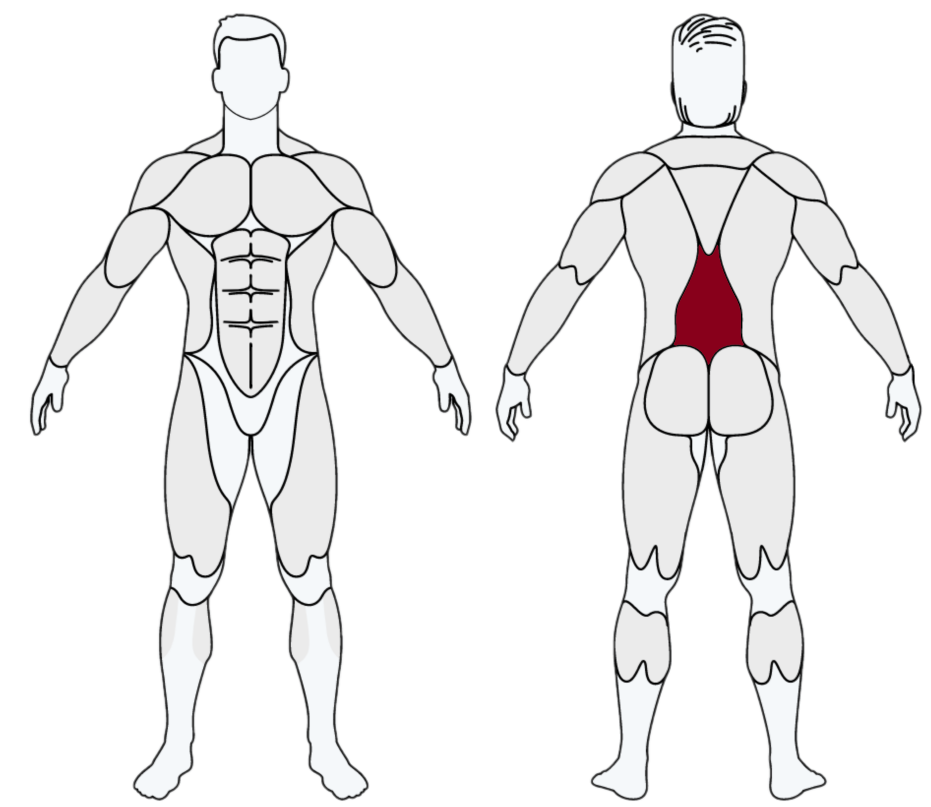
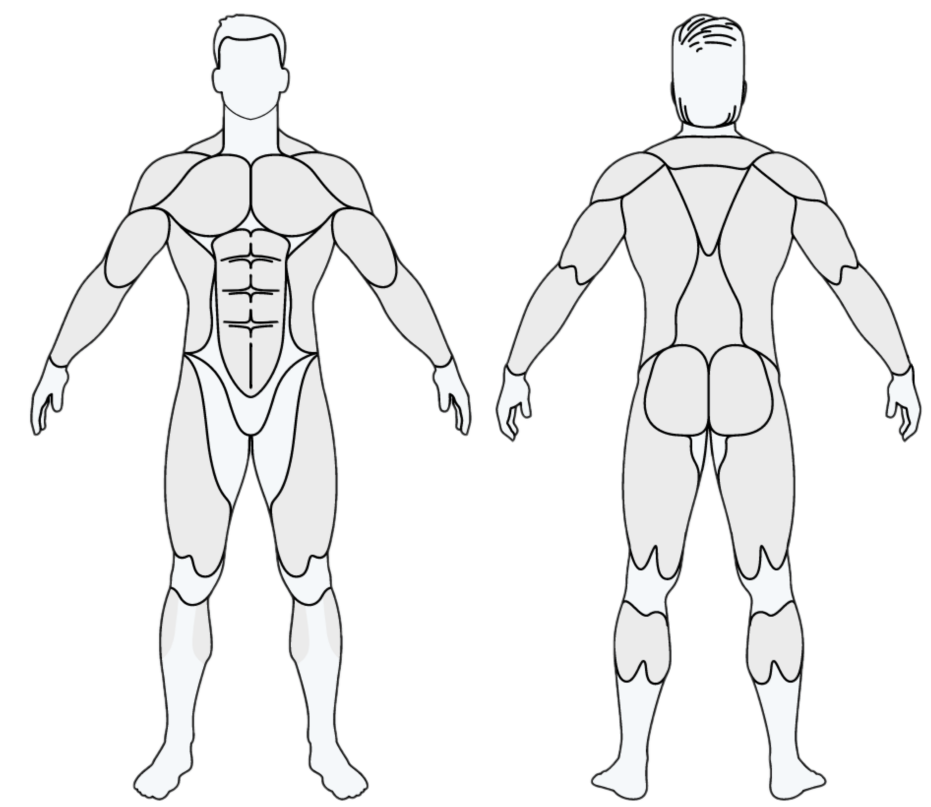
arrumando bugs finais

Changed region(s): [[0.7164, 0.3098, 0.8099, 0.4647]]

diff --git a/criador_treino.html b/criador_treino.html
@@ -62,85 +62,91 @@
     }
   </script>
 
+  <script src="https://kit.fontawesome.com/8a7eb19e2a.js" crossorigin="anonymous"></script>
+
 <body>
 
     <header>
         <h1>Criador de Treino</h1>
-        <menu>
-            <ul>
-                <li><a href="#">Por Músculo</a></li>
-                <li><a href="#">Por Exercício</a></li>
-                <li><a href="#">Contato</a></li>              
-            </ul>
-        </menu>
     </header>
 
     <div id="imagem_principal">
+
     <img src="figuras/boneco_inicial.png" id="inicial" usemap="#imageMap" width="auto" height="auto"/>
 </div>
 
     <map name="imageMap">
-      <area shape="poly" coords="187,150,198,142,214,136,222,130,222,150,211,156,185,151" onmouseover="changeImage(trapezio)" onmouseout="changeImage(boneco_inicial)" href="trapezio.html" target="_blank"/>
+      <area shape="poly" coords="187,150,198,142,214,136,222,130,222,150,211,156,185,151" onmouseover="changeImage(trapezio)" onmouseout="changeImage(boneco_inicial)" href="iframe_treino.html#trapezio" target="execucao"/>
 
-      <area shape="poly" coords="279,130,288,137,304,143,316,150,302,152,291,156,288,156,279,149,279,130" onmouseover="changeImage(trapezio)" onmouseout="changeImage(boneco_inicial)" href="trapezio.html" target="_blank"/>
+      <area shape="poly" coords="279,130,288,137,304,143,316,150,302,152,291,156,288,156,279,149,279,130" onmouseover="changeImage(trapezio)" onmouseout="changeImage(boneco_inicial)" href="iframe_treino.html#trapezio" target="execucao"/>
 
-      <area shape="poly" coords="675,137,743,137,772,151,759,156,746,167,740,169,715,165,696,165,675,170,669,167,659,157,645,152,659,144,675,137" onmouseover="changeImage(trapezio)" onmouseout="changeImage(boneco_inicial)" href="trapezio.html" target="_blank"/>
+      <area shape="poly" coords="675,137,743,137,772,151,759,156,746,167,740,169,715,165,696,165,675,170,669,167,659,157,645,152,659,144,675,137" onmouseover="changeImage(trapezio)" onmouseout="changeImage(boneco_inicial)" href="iframe_treino.html#trapezio" target="execucao"/>
 
-      <area shape="poly" coords="169,214,214,258,214,280,210,299,211,316,212,330,209,340,203,349,194,353,183,353,189,308,189,294,185,288,168,244,170,230,170,220,167,213" onmouseover="changeImage(ablado)" onmouseout="changeImage(boneco_inicial)" href=".html" target="_blank"/>
+      <area shape="poly" coords="169,214,214,258,214,280,210,299,211,316,212,330,209,340,203,349,194,353,183,353,189,308,189,294,185,288,168,244,170,230,170,220,167,213" onmouseover="changeImage(ablado)" onmouseout="changeImage(boneco_inicial)" href="iframe_treino.html#ablado" target="execucao"/>
 
-      <area shape="poly" coords="332,215,331,228,334,242,332,254,324,272,314,293,312,304,318,354,305,353,295,345,290,332,290,314,291,297,289,285,287,274,287,259,290,255,331,216" onmouseover="changeImage(ablado)" onmouseout="changeImage(boneco_inicial)" href=".html" target="_blank"/>
+      <area shape="poly" coords="332,215,331,228,334,242,332,254,324,272,314,293,312,304,318,354,305,353,295,345,290,332,290,314,291,297,289,285,287,274,287,259,290,255,331,216" onmouseover="changeImage(ablado)" onmouseout="changeImage(boneco_inicial)" href="iframe_treino.html#ablado" target="execucao"/>
 
-      <area shape="poly" coords="212,242,223,234,235,229,246,229,250,231,260,229,270,231,289,242,289,249,286,258,286,271,285,312,285,330,281,351,272,375,262,391,252,397,248,397,241,391,234,381,228,370,222,355,219,341,218,325,216,263,216,255,212,243" onmouseover="changeImage(abreto)" onmouseout="changeImage(boneco_inicial)" href=".html" target="_blank"/>
+      <area shape="poly" coords="212,242,223,234,235,229,246,229,250,231,260,229,270,231,289,242,289,249,286,258,286,271,285,312,285,330,281,351,272,375,262,391,252,397,248,397,241,391,234,381,228,370,222,355,219,341,218,325,216,263,216,255,212,243" onmouseover="changeImage(abreto)" onmouseout="changeImage(boneco_inicial)" href="iframe_treino.html#abreto" target="execucao"/>
 
-      <area shape="poly" coords="50,354,79,288,104,258,105,277,111,287,120,288,133,283,112,320,97,338,66,365,56,365,49,357" onmouseover="changeImage(antebraco)" onmouseout="changeImage(boneco_inicial)" href=".html" target="_blank"/>
+      <area shape="poly" coords="50,354,79,288,104,258,105,277,111,287,120,288,133,283,112,320,97,338,66,365,56,365,49,357" onmouseover="changeImage(antebraco)" onmouseout="changeImage(boneco_inicial)" href="iframe_treino.html#antebraco" target="execucao"/>
 
-      <area shape="poly" coords="397,258,420,284,452,355,446,366,434,366,412,342,392,322,368,282,385,287,395,280,397,268,396,256" onmouseover="changeImage(antebraco)" onmouseout="changeImage(boneco_inicial)" href=".html" target="_blank"/>
+      <area shape="poly" coords="397,258,420,284,452,355,446,366,434,366,412,342,392,322,368,282,385,287,395,280,397,268,396,256" onmouseover="changeImage(antebraco)" onmouseout="changeImage(boneco_inicial)" href="iframe_treino.html#antebraco" target="execucao"/>
       
-      <area shape="poly" coords="558,264,561,270,573,266,576,270,578,284,581,285,589,282,558,333,525,373,514,375,507,365,516,334,528,302,540,283,558,264" onmouseover="changeImage(antebraco)" onmouseout="changeImage(boneco_inicial)" href=".html" target="_blank"/>
+      <area shape="poly" coords="558,264,561,270,573,266,576,270,578,284,581,285,589,282,558,333,525,373,514,375,507,365,516,334,528,302,540,283,558,264" onmouseover="changeImage(antebraco)" onmouseout="changeImage(boneco_inicial)" href="iframe_treino.html#antebraco" target="execucao"/>
 
-      <area shape="poly" coords="828,281,839,284,841,279,841,266,846,265,857,268,858,261,881,290,896,320,910,364,903,375,893,373,864,339,850,318,825,279" onmouseover="changeImage(antebraco)" onmouseout="changeImage(boneco_inicial)" href=".html" target="_blank"/>
+      <area shape="poly" coords="828,281,839,284,841,279,841,266,846,265,857,268,858,261,881,290,896,320,910,364,903,375,893,373,864,339,850,318,825,279" onmouseover="changeImage(antebraco)" onmouseout="changeImage(boneco_inicial)" href="iframe_treino.html#antebraco" target="execucao"/>
 
-      <area shape="poly" coords="129,215,147,207,162,209,169,219,167,241,133,281,119,287,113,286,106,277,104,268,105,255,126,216" onmouseover="changeImage(biceps)" onmouseout="changeImage(boneco_inicial)" href=".html" target="_blank"/>
+      <area shape="poly" coords="129,215,147,207,162,209,169,219,167,241,133,281,119,287,113,286,106,277,104,268,105,255,126,216" onmouseover="changeImage(biceps)" onmouseout="changeImage(boneco_inicial)" href="iframe_treino.html#biuceps" target="execucao"/>
 
-      <area shape="poly" coords="348,207,372,214,392,245,396,265,395,279,388,287,379,288,366,281,335,243,331,229,332,213,347,207" onmouseover="changeImage(biceps)" onmouseout="changeImage(boneco_inicial)" href=".html" target="_blank"/>
+      <area shape="poly" coords="348,207,372,214,392,245,396,265,395,279,388,287,379,288,366,281,335,243,331,229,332,213,347,207" onmouseover="changeImage(biceps)" onmouseout="changeImage(boneco_inicial)" href="iframe_treino.html#biceps" target="execucao"/>
 
-      <area shape="poly" coords="665,164,698,236,698,258,677,307,676,341,640,367,647,310,645,291,633,262,625,236,627,227,622,198,665,164" onmouseover="changeImage(costas)" onmouseout="changeImage(boneco_inicial)" href=".html" target="_blank"/>
+      <area shape="poly" coords="665,164,698,236,698,258,677,307,676,341,640,367,647,310,645,291,633,262,625,236,627,227,622,198,665,164" onmouseover="changeImage(costas)" onmouseout="changeImage(boneco_inicial)" href="iframe_treino.html#costas" target="execucao"/>
 
-      <area shape="poly" coords="753,164,795,197,795,215,793,238,774,284,774,329,779,366,742,343,742,310,723,268,720,241,750,165" onmouseover="changeImage(costas)" onmouseout="changeImage(boneco_inicial)" href=".html" target="_blank"/>
+      <area shape="poly" coords="753,164,795,197,795,215,793,238,774,284,774,329,779,366,742,343,742,310,723,268,720,241,750,165" onmouseover="changeImage(costas)" onmouseout="changeImage(boneco_inicial)" href="iframe_treino.html#costas" target="execucao"/>
 
-      <area shape="poly" coords="659,352,684,344,700,350,709,363,725,347,744,346,761,355,774,400,770,420,756,433,728,436,709,427,690,438,660,433,647,417,644,400,658,354" onmouseover="changeImage(gluteos)" onmouseout="changeImage(boneco_inicial)" href=".html" target="_blank"/>
+      <area shape="poly" coords="659,352,684,344,700,350,709,363,725,347,744,346,761,355,774,400,770,420,756,433,728,436,709,427,690,438,660,433,647,417,644,400,658,354" onmouseover="changeImage(gluteos)" onmouseout="changeImage(boneco_inicial)" href="iframe_treino.html#gluteos" target="execucao"/>
 
-      <area shape="poly" coords="129,213,147,168,181,152,211,157,154,206,129,215" onmouseover="changeImage(ombro)" onmouseout="changeImage(boneco_inicial)" href=".html" target="_blank"/>
+      <area shape="poly" coords="129,213,147,168,181,152,211,157,154,206,129,215" onmouseover="changeImage(ombro)" onmouseout="changeImage(boneco_inicial)" href="iframe_treino.html#ombro" target="execucao"/>
 
-      <area shape="poly" coords="291,157,317,151,349,163,374,214,342,204,291,156" onmouseover="changeImage(ombro)" onmouseout="changeImage(boneco_inicial)" href=".html" target="_blank"/>
+      <area shape="poly" coords="291,157,317,151,349,163,374,214,342,204,291,156" onmouseover="changeImage(ombro)" onmouseout="changeImage(boneco_inicial)" href="iframe_treino.html#ombro" target="execucao"/>
 
-      <area shape="poly" coords="590,204,613,164,645,153,665,163,621,197,590,206" onmouseover="changeImage(ombro)" onmouseout="changeImage(boneco_inicial)" href=".html" target="_blank"/>
+      <area shape="poly" coords="590,204,613,164,645,153,665,163,621,197,590,206" onmouseover="changeImage(ombro)" onmouseout="changeImage(boneco_inicial)" href="iframe_treino.html#ombro" target="execucao"/>
 
-      <area shape="poly" coords="750,163,775,152,806,166,827,203,794,197,753,164" onmouseover="changeImage(ombro)" onmouseout="changeImage(boneco_inicial)" href=".html" target="_blank"/>
+      <area shape="poly" coords="750,163,775,152,806,166,827,203,794,197,753,164" onmouseover="changeImage(ombro)" onmouseout="changeImage(boneco_inicial)" href="iframe_treino.html#ombro" target="execucao"/>
 
-      <area shape="poly" coords="625,602,646,616,666,618,670,667,662,682,649,683,644,660,627,683,615,669,615,634,622,602" onmouseover="changeImage(panturrilha)" onmouseout="changeImage(boneco_inicial)" href=".html" target="_blank"/>
+      <area shape="poly" coords="625,602,646,616,666,618,670,667,662,682,649,683,644,660,627,683,615,669,615,634,622,602" onmouseover="changeImage(panturrilha)" onmouseout="changeImage(boneco_inicial)" href="iframe_treino.html#panturrilha" target="execucao"/>
 
-      <area shape="poly" coords="746,659,751,617,772,616,793,601,803,634,802,670,790,682,773,662,766,684,757,684,747,664,747,645" onmouseover="changeImage(panturrilha)" onmouseout="changeImage(boneco_inicial)" href=".html" target="_blank"/>
+      <area shape="poly" coords="746,659,751,617,772,616,793,601,803,634,802,670,790,682,773,662,766,684,757,684,747,664,747,645" onmouseover="changeImage(panturrilha)" onmouseout="changeImage(boneco_inicial)" href="iframe_treino.html#panturrilha" target="execucao"/>
 
-      <area shape="poly" coords="154,207,178,186,209,158,290,157,346,206,299,236,278,235,252,212,226,234,186,231,153,208" onmouseover="changeImage(peito)" onmouseout="changeImage(boneco_inicial)" href=".html" target="_blank"/>
+      <area shape="poly" coords="154,207,178,186,209,158,290,157,346,206,299,236,278,235,252,212,226,234,186,231,153,208" onmouseover="changeImage(peito)" onmouseout="changeImage(boneco_inicial)" href="iframe_treino.html#peito" target="execucao"/>
 
-      <area shape="poly" coords="661,353,645,403,655,428,690,437,699,476,677,573,667,580,659,573,655,548,641,571,631,553,623,492,639,371,657,355" onmouseover="changeImage(posterior)" onmouseout="changeImage(boneco_inicial)" href=".html" target="_blank"/>
+      <area shape="poly" coords="661,353,645,403,655,428,690,437,699,476,677,573,667,580,659,573,655,548,641,571,631,553,623,492,639,371,657,355" onmouseover="changeImage(posterior)" onmouseout="changeImage(boneco_inicial)" href="iframe_treino.html#posterior" target="execucao"/>
 
-      <area shape="poly" coords="718,479,729,435,767,425,774,401,759,352,781,370,795,462,794,517,780,570,762,547,752,580,738,564,719,474" onmouseover="changeImage(posterior)" onmouseout="changeImage(boneco_inicial)" href=".html" target="_blank"/>
+      <area shape="poly" coords="718,479,729,435,767,425,774,401,759,352,781,370,795,462,794,517,780,570,762,547,752,580,738,564,719,474" onmouseover="changeImage(posterior)" onmouseout="changeImage(boneco_inicial)" href="iframe_treino.html#posterior" target="execucao"/>
 
-      <area shape="poly" coords="184,357,203,399,232,510,223,558,204,576,175,554,165,476,183,356" onmouseover="changeImage(quadriceps)" onmouseout="changeImage(boneco_inicial)" href=".html" target="_blank"/>
+      <area shape="poly" coords="184,357,203,399,232,510,223,558,204,576,175,554,165,476,183,356" onmouseover="changeImage(quadriceps)" onmouseout="changeImage(boneco_inicial)" href="iframe_treino.html#quadriceps" target="execucao"/>
 
-      <area shape="poly" coords="318,357,337,455,336,510,326,555,293,577,277,554,269,506,293,451,316,355" onmouseover="changeImage(quadriceps)" onmouseout="changeImage(boneco_inicial)" href=".html" target="_blank"/>
+      <area shape="poly" coords="318,357,337,455,336,510,326,555,293,577,277,554,269,506,293,451,316,355" onmouseover="changeImage(quadriceps)" onmouseout="changeImage(boneco_inicial)" href="iframe_treino.html#quadriceps" target="execucao"/>
 
-      <area shape="poly" coords="559,266,591,203,623,197,626,237,581,285,576,266,559,267" onmouseover="changeImage(triceps)" onmouseout="changeImage(boneco_inicial)" href=".html" target="_blank"/>
+      <area shape="poly" coords="559,266,591,203,623,197,626,237,581,285,576,266,559,267" onmouseover="changeImage(triceps)" onmouseout="changeImage(boneco_inicial)" href="iframe_treino.html#triceps" target="execucao"/>
 
-      <area shape="poly" coords="797,198,829,204,861,264,845,268,840,287,825,280,795,240" onmouseover="changeImage(triceps)" onmouseout="changeImage(boneco_inicial)" href=".html" target="_blank"/>
+      <area shape="poly" coords="797,198,829,204,861,264,845,268,840,287,825,280,795,240" onmouseover="changeImage(triceps)" onmouseout="changeImage(boneco_inicial)" href="iframe_treino.html#triceps" target="execucao"/>
 
-      <area shape="poly" coords="673,344,676,332,675,307,697,257,698,239,708,256,718,239,722,265,740,304,745,346,726,345,70,363,689,345,672,345" onmouseover="changeImage(lombar)" onmouseout="changeImage(boneco_inicial)" href=".html" target="_blank"/>
+      <area shape="poly" coords="673,344,676,332,675,307,697,257,698,239,708,256,718,239,722,265,740,304,745,346,726,345,70,363,689,345,672,345" onmouseover="changeImage(lombar)" onmouseout="changeImage(boneco_inicial)" href="iframe_treino.html#lombar" target="execucao"/>
 
-      <area shape="poly" coords="669,168,748,167,708,255,668,168" onmouseover="changeImage(midcostas)" onmouseout="changeImage(boneco_inicial)" href=".html" target="_blank"/>
+      <area shape="poly" coords="669,168,748,167,708,255,668,168" onmouseover="changeImage(midcostas)" onmouseout="changeImage(boneco_inicial)" href="iframe_treino.html#midcostas" target="execucao"/>
 
     </map>
-    
+
+    <div class="divIframe">
+    <iframe name="execucao" src="iframe_treino.html" width=600px title="YouTube video player" frameborder="0" allowfullscreen></iframe>
+    </div>
+
 </body>
+
+<footer>
+    <a href="https://www.linkedin.com/in/viniciuszapola/" target="_blank" class="link"><i class="fa-brands fa-linkedin"></i></a> | <a href="https://github.com/vzapola" target="_blank" class="link"><i class="fa-brands fa-github"></i></a><br><br><br>
+by Vinicius Zapola
+</footer>
+
 </html>

diff --git a/iframe_treino.html b/iframe_treino.html
@@ -1,0 +1,203 @@
+<!DOCTYPE html>
+<html lang="pt-br">
+<head>
+    <meta charset="UTF-8">
+    <meta http-equiv="X-UA-Compatible" content="IE=edge">
+    <meta name="viewport" content="width=device-width, initial-scale=1.0">
+    <title>Document</title>
+    <link rel="stylesheet" href="style.css" />
+</head>
+
+<style>
+    body {
+        font-family: sans-serif;
+        overflow-y: hidden;
+        overflow-x: hidden;
+    }
+</style>
+
+<body id="body_iframe">
+    <p id="peito">
+
+        <h1>CHEST</h1>
+        <h2>Exercise Name 01</h2>
+    
+            <iframe width="560" height="315" src="https://www.youtube.com/embed/SCVCLChPQFY" title="YouTube video player" frameborder="0" allow="accelerometer; autoplay; clipboard-write; encrypted-media; gyroscope; picture-in-picture; web-share" allowfullscreen ></iframe>
+
+        <h2>Exercise Name 02</h2>
+            <iframe width="560" height="315" src="https://www.youtube.com/embed/SCVCLChPQFY" title="YouTube video player" frameborder="0" allow="accelerometer; autoplay; clipboard-write; encrypted-media; gyroscope; picture-in-picture; web-share" allowfullscreen ></iframe>
+
+        <h2>Exercise Name 03</h2>
+            <iframe width="560" height="315" src="https://www.youtube.com/embed/SCVCLChPQFY" title="YouTube video player" frameborder="0" allow="accelerometer; autoplay; clipboard-write; encrypted-media; gyroscope; picture-in-picture; web-share" allowfullscreen ></iframe>
+    </p>
+
+    <p id="ablado">
+
+        <h1>OBLIQUE</h1>
+        <h2>Exercise Name 01</h2>
+        <iframe width="560" height="315" src="https://www.youtube.com/embed/k9rfQiXoM1w" title="YouTube video player" frameborder="0" allow="accelerometer; autoplay; clipboard-write; encrypted-media; gyroscope; picture-in-picture; web-share" allowfullscreen></iframe>
+
+        <h2>Exercise Name 02</h2>
+        <iframe width="560" height="315" src="https://www.youtube.com/embed/gsCYfTxQwzo" title="YouTube video player" frameborder="0" allow="accelerometer; autoplay; clipboard-write; encrypted-media; gyroscope; picture-in-picture; web-share" allowfullscreen></iframe>
+        <h2>Exercise Name 03</h2>
+        <iframe width="560" height="315" src="https://www.youtube.com/embed/ILP3DFi-2XQ" title="YouTube video player" frameborder="0" allow="accelerometer; autoplay; clipboard-write; encrypted-media; gyroscope; picture-in-picture; web-share" allowfullscreen></iframe>
+
+    </p>
+
+    <p id="abreto">        
+        <h1>ABS</h1>
+        <h2>Exercise Name 01</h2>
+        <iframe width="560" height="315" src="https://www.youtube.com/embed/tFKEaPlD9BI" title="YouTube video player" frameborder="0" allow="accelerometer; autoplay; clipboard-write; encrypted-media; gyroscope; picture-in-picture; web-share" allowfullscreen></iframe>
+        <h2>Exercise Name 02</h2>
+        <iframe width="560" height="315" src="https://www.youtube.com/embed/tFKEaPlD9BI" title="YouTube video player" frameborder="0" allow="accelerometer; autoplay; clipboard-write; encrypted-media; gyroscope; picture-in-picture; web-share" allowfullscreen></iframe>
+        <h2>Exercise Name 03</h2>
+        <iframe width="560" height="315" src="https://www.youtube.com/embed/tFKEaPlD9BI" title="YouTube video player" frameborder="0" allow="accelerometer; autoplay; clipboard-write; encrypted-media; gyroscope; picture-in-picture; web-share" allowfullscreen></iframe>
+    </p>
+
+    <p id="midcostas">
+        <h1>MID-BACK</h1>
+        <h2>Exercise Name 01</h2>
+        <iframe width="560" height="315" src="https://www.youtube.com/embed/aai4FzTF4ts" title="YouTube video player" frameborder="0" allow="accelerometer; autoplay; clipboard-write; encrypted-media; gyroscope; picture-in-picture; web-share" allowfullscreen></iframe>
+        <h2>Exercise Name 02</h2>
+        <iframe width="560" height="315" src="https://www.youtube.com/embed/aai4FzTF4ts" title="YouTube video player" frameborder="0" allow="accelerometer; autoplay; clipboard-write; encrypted-media; gyroscope; picture-in-picture; web-share" allowfullscreen></iframe>
+        <h2>Exercise Name 03</h2>
+        <iframe width="560" height="315" src="https://www.youtube.com/embed/aai4FzTF4ts" title="YouTube video player" frameborder="0" allow="accelerometer; autoplay; clipboard-write; encrypted-media; gyroscope; picture-in-picture; web-share" allowfullscreen></iframe>
+    </p>
+
+    <p id="antebraco">
+        <h1>FOREARMS</h1>
+        <h2>Exercise Name 01</h2>
+        <iframe width="560" height="315" src="https://www.youtube.com/embed/KBSPoICoA_Q" title="YouTube video player" frameborder="0" allow="accelerometer; autoplay; clipboard-write; encrypted-media; gyroscope; picture-in-picture; web-share" allowfullscreen></iframe>
+        <h2>Exercise Name 02</h2>
+        <iframe width="560" height="315" src="https://www.youtube.com/embed/KBSPoICoA_Q" title="YouTube video player" frameborder="0" allow="accelerometer; autoplay; clipboard-write; encrypted-media; gyroscope; picture-in-picture; web-share" allowfullscreen></iframe>
+        <h2>Exercise Name 03</h2>
+        <iframe width="560" height="315" src="https://www.youtube.com/embed/KBSPoICoA_Q" title="YouTube video player" frameborder="0" allow="accelerometer; autoplay; clipboard-write; encrypted-media; gyroscope; picture-in-picture; web-share" allowfullscreen></iframe>
+    </p>
+
+    <p id="biceps">
+        <h1>BICEPS</h1>
+        <h2>Exercise Name 01</h2>
+        <iframe width="560" height="315" src="https://www.youtube.com/embed/OI9Cq3GFHx0" title="YouTube video player" frameborder="0" allow="accelerometer; autoplay; clipboard-write; encrypted-media; gyroscope; picture-in-picture; web-share" allowfullscreen></iframe>
+
+        <h2>Exercise Name 02</h2>
+        <iframe width="560" height="315" src="https://www.youtube.com/embed/OI9Cq3GFHx0" title="YouTube video player" frameborder="0" allow="accelerometer; autoplay; clipboard-write; encrypted-media; gyroscope; picture-in-picture; web-share" allowfullscreen></iframe>
+
+        <h2>Exercise Name 03</h2>
+        <iframe width="560" height="315" src="https://www.youtube.com/embed/OI9Cq3GFHx0" title="YouTube video player" frameborder="0" allow="accelerometer; autoplay; clipboard-write; encrypted-media; gyroscope; picture-in-picture; web-share" allowfullscreen></iframe>
+
+    </p>
+
+    <p id="costas">
+        <h1>LATS</h1>
+        <h2>Exercise Name 01</h2>
+        <iframe width="560" height="315" src="https://www.youtube.com/embed/aai4FzTF4ts" title="YouTube video player" frameborder="0" allow="accelerometer; autoplay; clipboard-write; encrypted-media; gyroscope; picture-in-picture; web-share" allowfullscreen></iframe>
+
+        <h2>Exercise Name 02</h2>
+        <iframe width="560" height="315" src="https://www.youtube.com/embed/aai4FzTF4ts" title="YouTube video player" frameborder="0" allow="accelerometer; autoplay; clipboard-write; encrypted-media; gyroscope; picture-in-picture; web-share" allowfullscreen></iframe>
+
+        <h2>Exercise Name 03</h2>
+        <iframe width="560" height="315" src="https://www.youtube.com/embed/aai4FzTF4ts" title="YouTube video player" frameborder="0" allow="accelerometer; autoplay; clipboard-write; encrypted-media; gyroscope; picture-in-picture; web-share" allowfullscreen></iframe>
+
+    </p>
+
+    <p id="gluteos">
+        <h1>GLUTES</h1>
+        <h2>Exercise Name 01</h2>
+        <iframe width="560" height="315" src="https://www.youtube.com/embed/3BzFLxYIxYQ" title="YouTube video player" frameborder="0" allow="accelerometer; autoplay; clipboard-write; encrypted-media; gyroscope; picture-in-picture; web-share" allowfullscreen></iframe>
+
+        <h2>Exercise Name 02</h2>
+        <iframe width="560" height="315" src="https://www.youtube.com/embed/3BzFLxYIxYQ" title="YouTube video player" frameborder="0" allow="accelerometer; autoplay; clipboard-write; encrypted-media; gyroscope; picture-in-picture; web-share" allowfullscreen></iframe>
+
+        <h2>Exercise Name 03</h2>
+        <iframe width="560" height="315" src="https://www.youtube.com/embed/3BzFLxYIxYQ" title="YouTube video player" frameborder="0" allow="accelerometer; autoplay; clipboard-write; encrypted-media; gyroscope; picture-in-picture; web-share" allowfullscreen></iframe>
+
+    </p>
+
+    <p id="lombar">
+        <h1>LOWER BACK</h1>
+        <h2>Exercise Name 01</h2><iframe width="560" height="315" src="https://www.youtube.com/embed/TRb6nzkNHBs" title="YouTube video player" frameborder="0" allow="accelerometer; autoplay; clipboard-write; encrypted-media; gyroscope; picture-in-picture; web-share" allowfullscreen></iframe>
+
+        <h2>Exercise Name 02</h2>
+        <iframe width="560" height="315" src="https://www.youtube.com/embed/TRb6nzkNHBs" title="YouTube video player" frameborder="0" allow="accelerometer; autoplay; clipboard-write; encrypted-media; gyroscope; picture-in-picture; web-share" allowfullscreen></iframe>
+
+        <h2>Exercise Name 03</h2>
+        <iframe width="560" height="315" src="https://www.youtube.com/embed/TRb6nzkNHBs" title="YouTube video player" frameborder="0" allow="accelerometer; autoplay; clipboard-write; encrypted-media; gyroscope; picture-in-picture; web-share" allowfullscreen></iframe>
+
+    </p>
+
+    <p id="ombro">
+        <h1>SHOULDERS</h1>
+        <h2>Exercise Name 01</h2>
+        <iframe width="560" height="315" src="https://www.youtube.com/embed/9FHpCnKRhi0" title="YouTube video player" frameborder="0" allow="accelerometer; autoplay; clipboard-write; encrypted-media; gyroscope; picture-in-picture; web-share" allowfullscreen></iframe>
+
+        <h2>Exercise Name 02</h2>
+        <iframe width="560" height="315" src="https://www.youtube.com/embed/9FHpCnKRhi0" title="YouTube video player" frameborder="0" allow="accelerometer; autoplay; clipboard-write; encrypted-media; gyroscope; picture-in-picture; web-share" allowfullscreen></iframe>
+
+        <h2>Exercise Name 03</h2>
+        <iframe width="560" height="315" src="https://www.youtube.com/embed/9FHpCnKRhi0" title="YouTube video player" frameborder="0" allow="accelerometer; autoplay; clipboard-write; encrypted-media; gyroscope; picture-in-picture; web-share" allowfullscreen></iframe>
+
+    </p>
+
+    <p id="panturrilha">
+        <h1>CALVES</h1>
+        <h2>Exercise Name 01</h2>
+        <iframe width="560" height="315" src="https://www.youtube.com/embed/hg_fEMaaxUQ" title="YouTube video player" frameborder="0" allow="accelerometer; autoplay; clipboard-write; encrypted-media; gyroscope; picture-in-picture; web-share" allowfullscreen></iframe>
+
+        <h2>Exercise Name 02</h2>
+        <iframe width="560" height="315" src="https://www.youtube.com/embed/hg_fEMaaxUQ" title="YouTube video player" frameborder="0" allow="accelerometer; autoplay; clipboard-write; encrypted-media; gyroscope; picture-in-picture; web-share" allowfullscreen></iframe>
+
+        <h2>Exercise Name 03</h2>
+        <iframe width="560" height="315" src="https://www.youtube.com/embed/hg_fEMaaxUQ" title="YouTube video player" frameborder="0" allow="accelerometer; autoplay; clipboard-write; encrypted-media; gyroscope; picture-in-picture; web-share" allowfullscreen></iframe>
+
+    </p>
+
+    <p id="posterior">
+        <h1>HAMSTRINGS</h1>
+        <h2>Exercise Name 01</h2>
+        <iframe width="560" height="315" src="https://www.youtube.com/embed/dZ1KUe3NsgY" title="YouTube video player" frameborder="0" allow="accelerometer; autoplay; clipboard-write; encrypted-media; gyroscope; picture-in-picture; web-share" allowfullscreen></iframe>
+
+        <h2>Exercise Name 02</h2>
+        <iframe width="560" height="315" src="https://www.youtube.com/embed/dZ1KUe3NsgY" title="YouTube video player" frameborder="0" allow="accelerometer; autoplay; clipboard-write; encrypted-media; gyroscope; picture-in-picture; web-share" allowfullscreen></iframe>
+
+        <h2>Exercise Name 03</h2>
+        <iframe width="560" height="315" src="https://www.youtube.com/embed/dZ1KUe3NsgY" title="YouTube video player" frameborder="0" allow="accelerometer; autoplay; clipboard-write; encrypted-media; gyroscope; picture-in-picture; web-share" allowfullscreen></iframe>
+
+    </p>
+    
+    <p id="quadriceps">
+        <h1>QUADS</h1>
+        <h2>Exercise Name 01</h2>
+        <iframe width="560" height="315" src="https://www.youtube.com/embed/RvwN5O9x2vM" title="YouTube video player" frameborder="0" allow="accelerometer; autoplay; clipboard-write; encrypted-media; gyroscope; picture-in-picture; web-share" allowfullscreen></iframe>
+
+        <h2>Exercise Name 02</h2>
+        <iframe width="560" height="315" src="https://www.youtube.com/embed/RvwN5O9x2vM" title="YouTube video player" frameborder="0" allow="accelerometer; autoplay; clipboard-write; encrypted-media; gyroscope; picture-in-picture; web-share" allowfullscreen></iframe>
+
+        <h2>Exercise Name 03</h2>
+        <iframe width="560" height="315" src="https://www.youtube.com/embed/RvwN5O9x2vM" title="YouTube video player" frameborder="0" allow="accelerometer; autoplay; clipboard-write; encrypted-media; gyroscope; picture-in-picture; web-share" allowfullscreen></iframe>
+
+    </p>
+
+    <p id="trapezio">
+        <h1>TRAPS</h1>
+        <h2>Exercise Name 01</h2>
+        <iframe width="560" height="315" src="https://www.youtube.com/embed/RvwN5O9x2vM" title="YouTube video player" frameborder="0" allow="accelerometer; autoplay; clipboard-write; encrypted-media; gyroscope; picture-in-picture; web-share" allowfullscreen></iframe>
+
+        <h2>Exercise Name 02</h2>
+        <iframe width="560" height="315" src="https://www.youtube.com/embed/RvwN5O9x2vM" title="YouTube video player" frameborder="0" allow="accelerometer; autoplay; clipboard-write; encrypted-media; gyroscope; picture-in-picture; web-share" allowfullscreen></iframe>
+
+        <h2>Exercise Name 03</h2>
+        <iframe width="560" height="315" src="https://www.youtube.com/embed/RvwN5O9x2vM" title="YouTube video player" frameborder="0" allow="accelerometer; autoplay; clipboard-write; encrypted-media; gyroscope; picture-in-picture; web-share" allowfullscreen></iframe>
+
+    </p>
+
+    <p id="triceps">
+        <h1>TRICEPS</h1>
+        <h2>Exercise Name 01</h2>
+        <iframe width="560" height="315" src="https://www.youtube.com/embed/59f1WgbqGN8" title="YouTube video player" frameborder="0" allow="accelerometer; autoplay; clipboard-write; encrypted-media; gyroscope; picture-in-picture; web-share" allowfullscreen></iframe>
+        <h2>Exercise Name 02</h2>
+        <iframe width="560" height="315" src="https://www.youtube.com/embed/59f1WgbqGN8" title="YouTube video player" frameborder="0" allow="accelerometer; autoplay; clipboard-write; encrypted-media; gyroscope; picture-in-picture; web-share" allowfullscreen></iframe>
+        <h2>Exercise Name 03</h2>
+        <iframe width="560" height="315" src="https://www.youtube.com/embed/59f1WgbqGN8" title="YouTube video player" frameborder="0" allow="accelerometer; autoplay; clipboard-write; encrypted-media; gyroscope; picture-in-picture; web-share" allowfullscreen></iframe>
+    </p>
+</body>
+</html>

diff --git a/style.css b/style.css
@@ -21,3 +21,52 @@ menu {
     text-transform: uppercase;
     clear: both;
 }
+
+footer {
+    font-family: sans-serif;
+    opacity: .9;
+    background-color: #242424;
+    color: rgb(243,243,243);
+    padding: 5px;
+    trans;
+    font-size: medium;
+    margin-top: 30px;
+    text-align: center;
+    line-height: 0.5;
+}
+
+a.link {
+    font-size: 20pt;
+    color: rgb(243,243,243);
+    text-decoration: none;
+}
+
+a.link:hover {
+    text-decoration: underline;
+}
+
+i:hover {
+    font-size: 50pt;
+}
+
+div.divIframe {
+    width: 100%px;
+    height: 1250px;
+    display: flex;
+    justify-content: center;
+    text-align: center;
+}
+
+h1 {
+    text-align: center;
+    background-color: #e0e0e0;
+    padding: 10px;
+}
+
+h2 {
+    text-align: center;
+}
+
+p {
+    margin: auto;
+}
